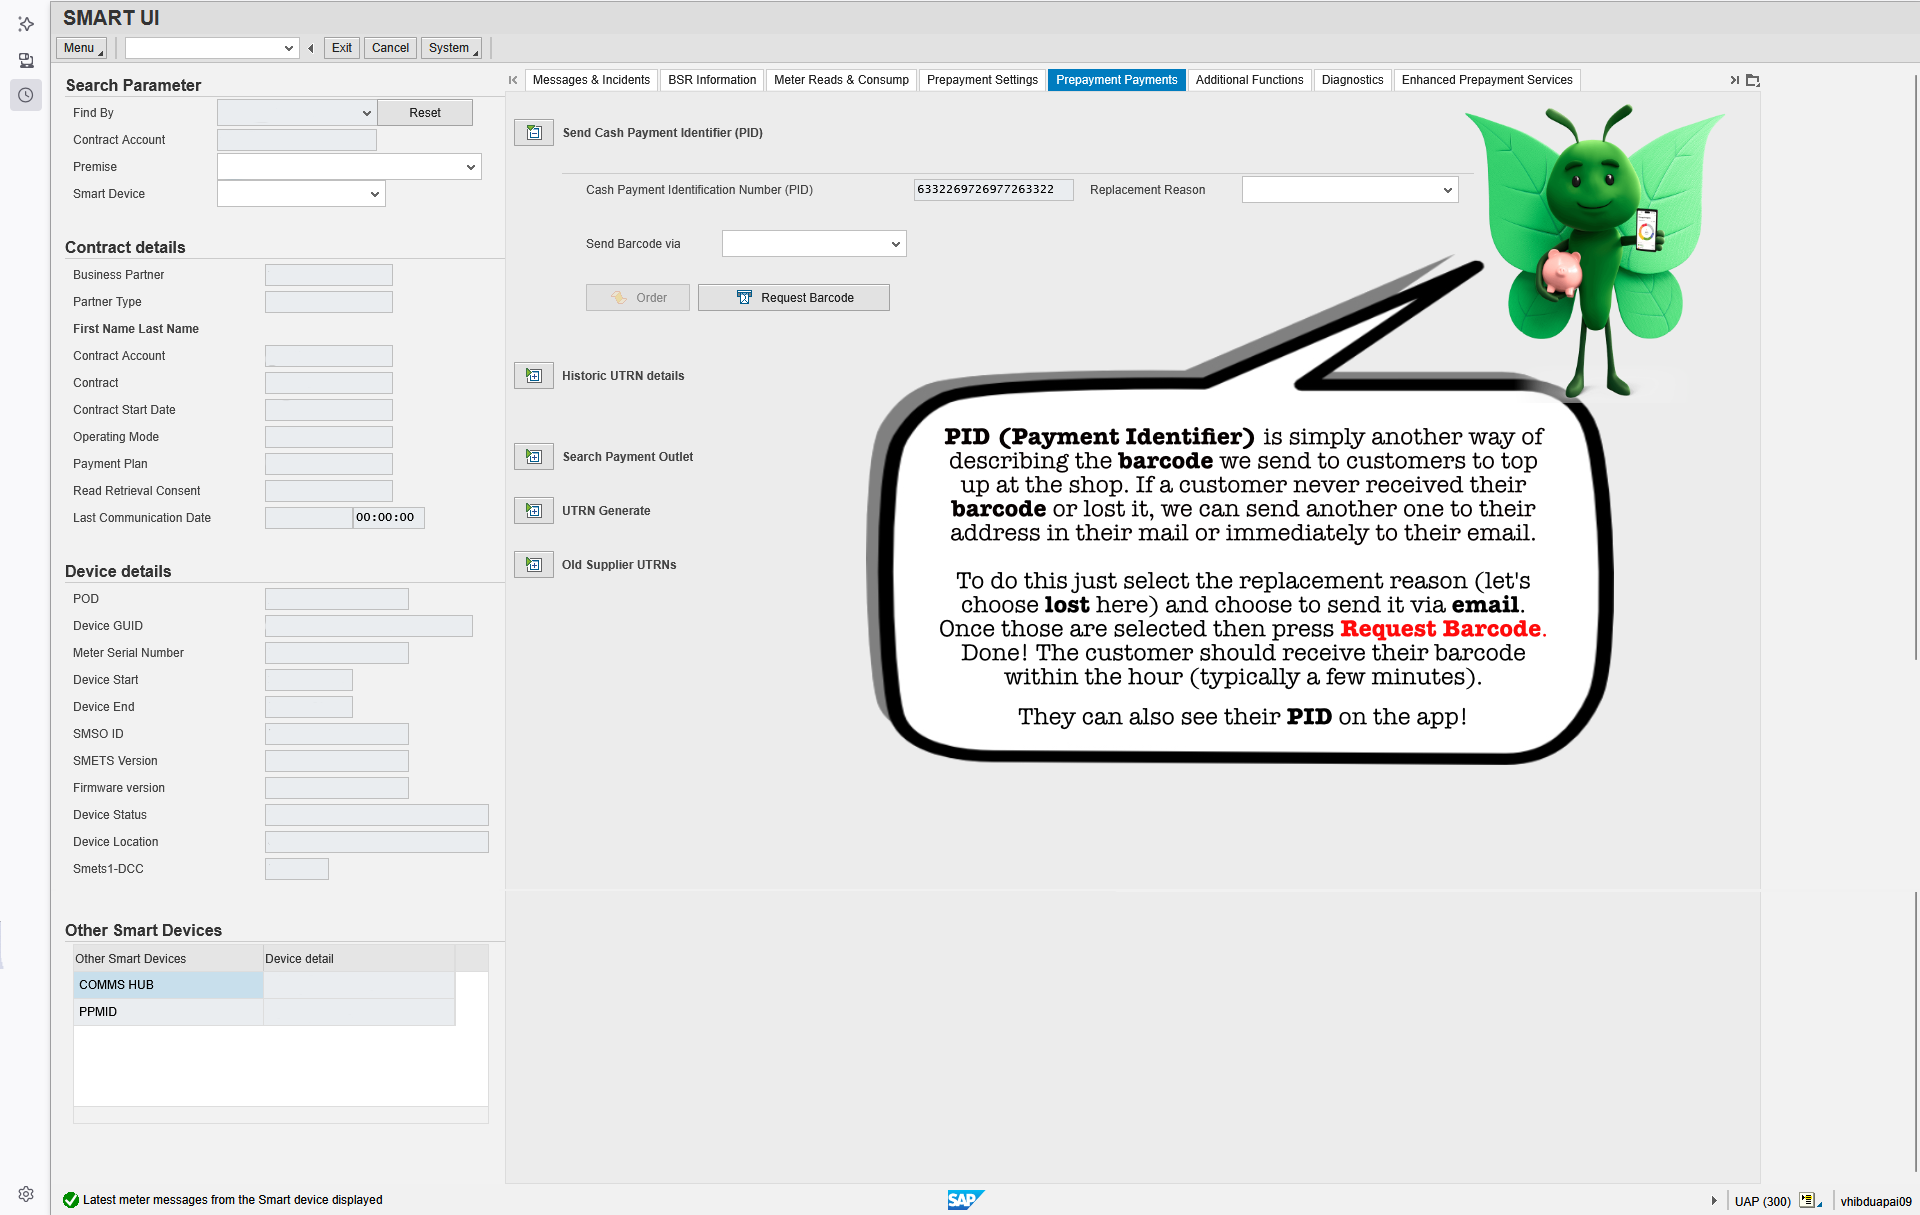
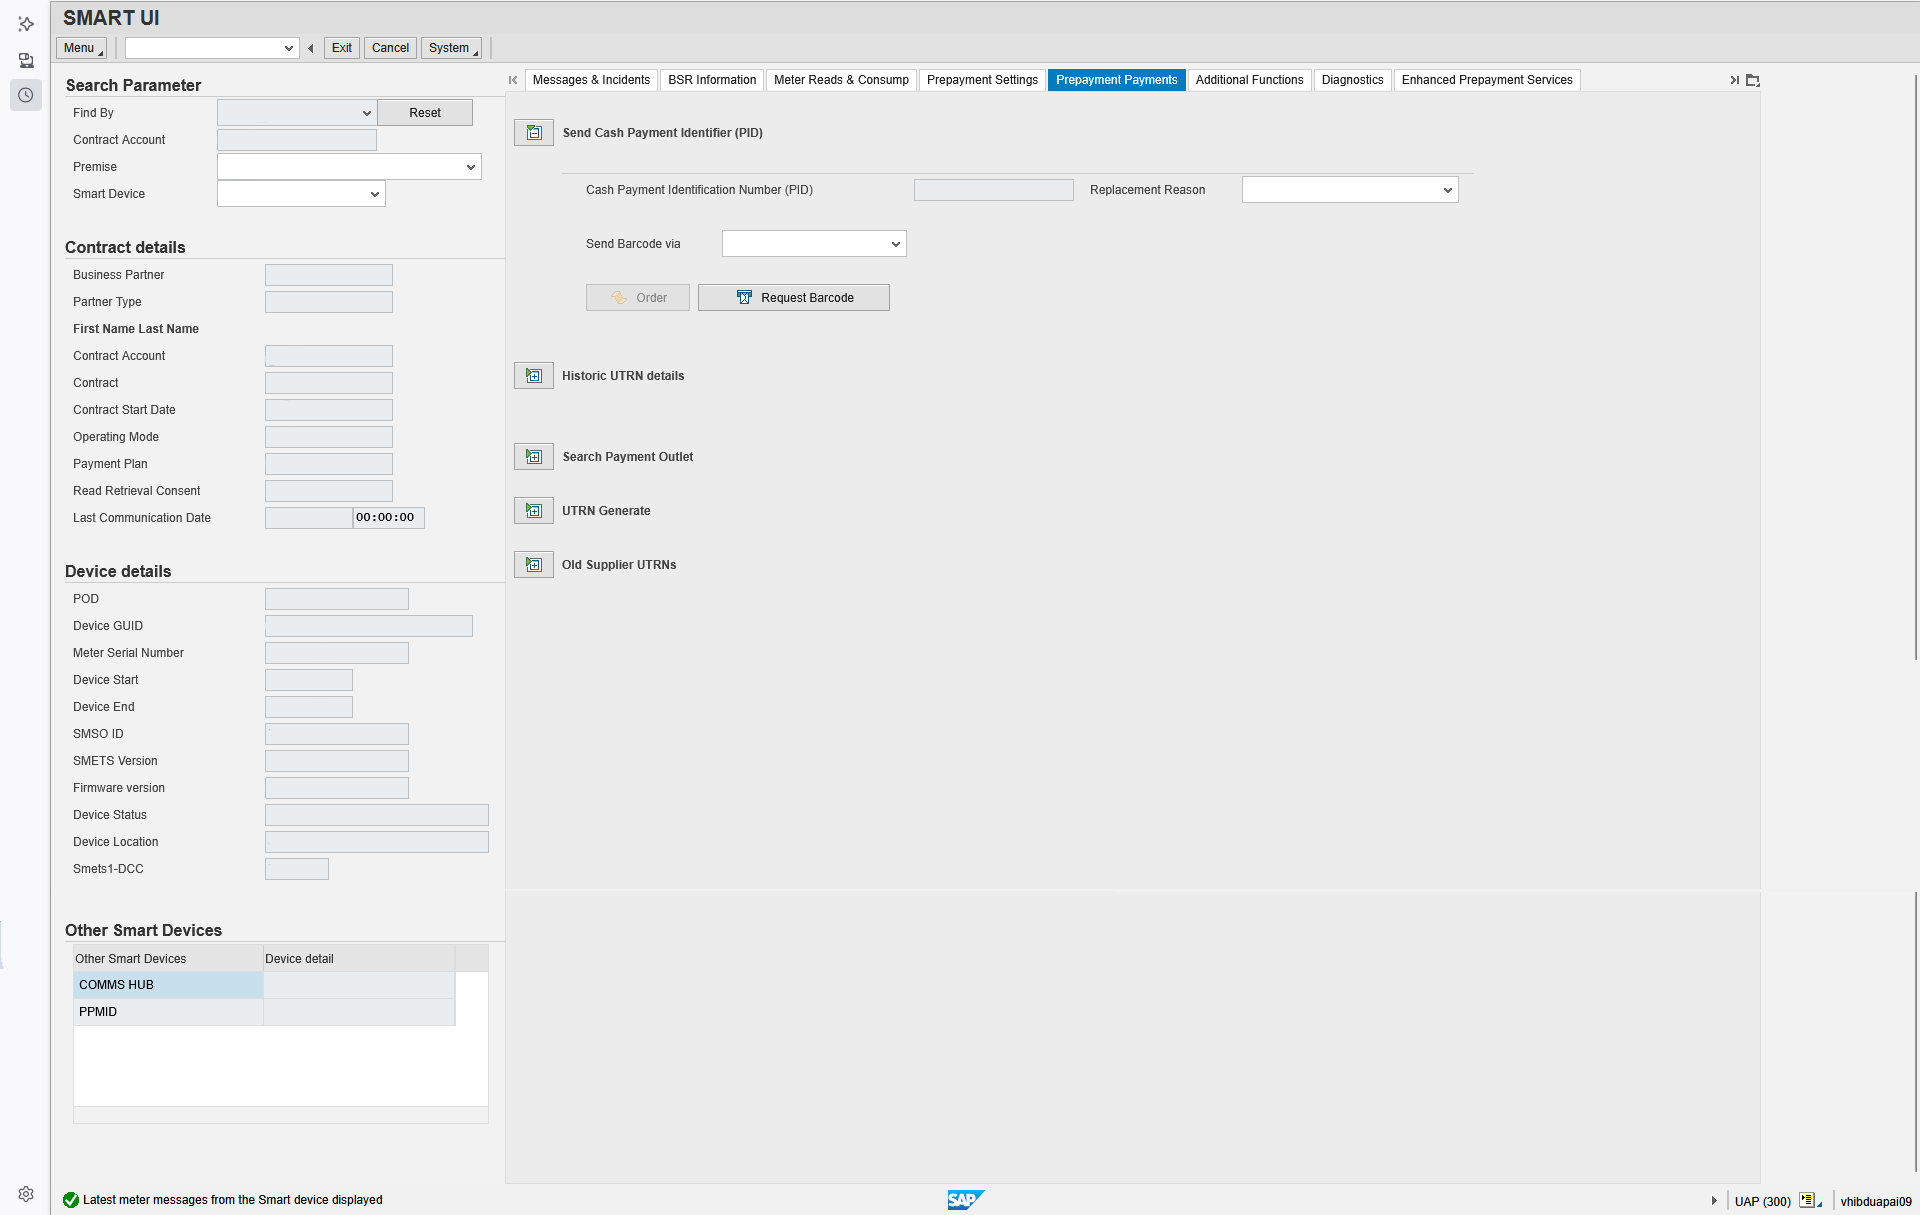
dropdowns

Changed region(s): [[0.4375, 0.0914, 0.9062, 0.6395]]

diff --git a/html/prepaymentpaymentsPID.html b/html/prepaymentpaymentsPID.html
@@ -89,7 +89,18 @@
        onmouseout="this.src='../images/buttons/sideboxgrey.png';"
        alt=""
        style="width: 40px; height: 27px; display: block;" />
+	
+
 </a>
+</div>
+	<!-- Dropdown fields -->
+</div>
+	<div id="send_Barcode_Dropdown" class="custom-dropdown dropdown-barcode" style="top: 233px; left: 727px;">
+  <div class="selected-option">Email</div>
+  <div class="dropdown-options">
+    <div data-value="EMAIL">Email</div>
+    <div data-value="POST">Post</div>
+  </div>
 </div>
 <script src="/smartui/scripts/smartui-loader.js"></script>
 <script src="/smartui/scripts/utrn-table-loader.js"></script>

diff --git a/styles/styles.css b/styles/styles.css
@@ -144,3 +144,13 @@ body {
 .custom-dropdown .dropdown-options div:hover {
   background-color: #cce6ff;
 }
+
+/* Custom style for the Send Barcode dropdown */
+.custom-dropdown.dropdown-barcode {
+  width: 165px; /* adjust if needed to match your field */
+}
+
+.custom-dropdown.dropdown-barcode .dropdown-options {
+  width: 165px; /* if you want it slightly wider than the box */
+}
+
